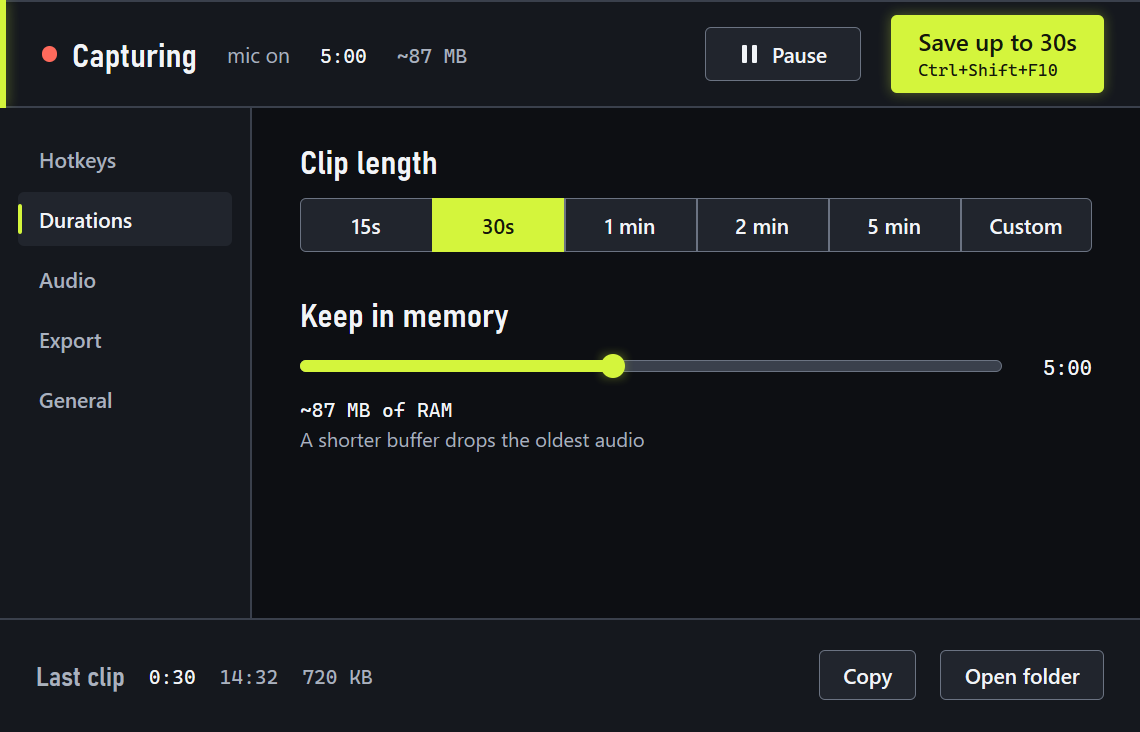
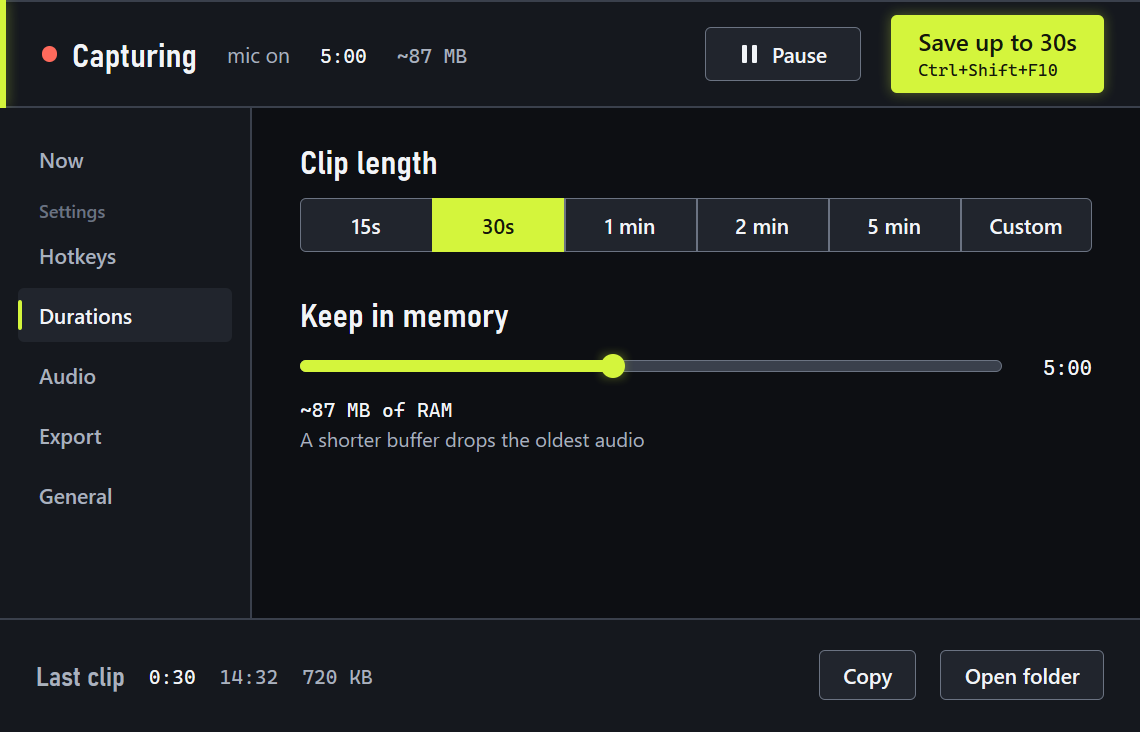
Show the Now row in the settings screenshots, and say in the README what Now shows and what has not been tried on it

diff --git a/src/Hindsound/Ui/Window/SettingsDump.cs b/src/Hindsound/Ui/Window/SettingsDump.cs
@@ -175,7 +175,14 @@ internal static unsafe class SettingsDump
             PngFile.Write(Path.Combine(folder, name + suffix + ".png"), canvas.Bits, canvas.Width, canvas.Height);
         }
 
-        Shot("hotkeys");
+        // The four pictures of the README: the side bar they show is the one of the window, with the Now page above the settings.
+        static void WithNow(SettingsScreen s, Section page)
+        {
+            s.SetNow(new SampleNow(default));
+            s.ShowSection(page);
+        }
+
+        Shot("hotkeys", (s, _) => WithNow(s, Section.Hotkeys));
         Shot("band-filling", (s, _) => s.UpdateStatus(sampleStatus with { Buffered = TimeSpan.FromSeconds(12) }));
         Shot("band-empty", (s, _) => s.UpdateStatus(sampleStatus with { Buffered = TimeSpan.Zero }));
         Shot("band-longest", (s, _) =>
@@ -210,7 +217,7 @@ internal static unsafe class SettingsDump
             s.Key(Vk.Enter, 0);
             s.Key(0x79, HotkeyGesture.ModControl | HotkeyGesture.ModShift);
         }, focus: true);
-        Shot("durations", (s, _) => s.ShowSection(Section.Durations));
+        Shot("durations", (s, _) => WithNow(s, Section.Durations));
         Shot("durations-custom", (s, _) =>
         {
             s.ShowSection(Section.Durations);
@@ -224,7 +231,7 @@ internal static unsafe class SettingsDump
         {
             s.Editor.SetSourceApp("Discord.exe");
             s.UpdateStatus(sampleStatus with { SystemDeviceName = "Discord.exe", OwnSoundsExcluded = false, SourceApp = "Discord.exe" });
-            s.ShowSection(Section.Audio);
+            WithNow(s, Section.Audio);
         });
         Shot("audio-app-missing", (s, _) =>
         {
@@ -240,7 +247,7 @@ internal static unsafe class SettingsDump
             s.Key(Vk.Space, 0);
         }, focus: true);
         Shot("export", (s, _) => s.ShowSection(Section.Export));
-        Shot("general", (s, _) => s.ShowSection(Section.General));
+        Shot("general", (s, _) => WithNow(s, Section.General));
         Shot("general-bottom", (s, _) =>
         {
             s.ShowSection(Section.General);

diff --git a/README.md b/README.md
@@ -197,6 +197,8 @@ You can change them all in Settings > Hotkeys. If another app already holds a co
 
 They are in the left column of the window, under `Settings`, or through `Settings` in the menu of the icon. There is no OK button: a change is saved at once, in `%AppData%\Hindsound\settings.json`.
 
+`Now`, above the settings in the same column, is not a setting: it draws a wave for the PC sound and one for the microphone, with the part a save would keep in the accent color and `Save: last 0:30` under it. `Record` is on that page too, and it is the same setting as on `Audio`.
+
 | Page | Setting | Choices (default in bold) |
 | --- | --- | --- |
 | Durations | Clip length | 15s, **30s**, 1 min, 2 min, 5 min, Custom (up to 30:00) |
@@ -307,6 +309,8 @@ Hindsound has only run on one Windows 11 PC so far. These have not been tried fo
 - recording only a real game or Discord
 - the notification in real games in exclusive fullscreen
 - the settings window with a real mouse and on a second screen
+- the `Now` page on a real window, with real music playing
+- the bold `Open Hindsound` line in the menu of the icon
 - typing a hotkey, and the Browse button
 - changing the audio output
 - a damaged settings file with Start with Windows on
